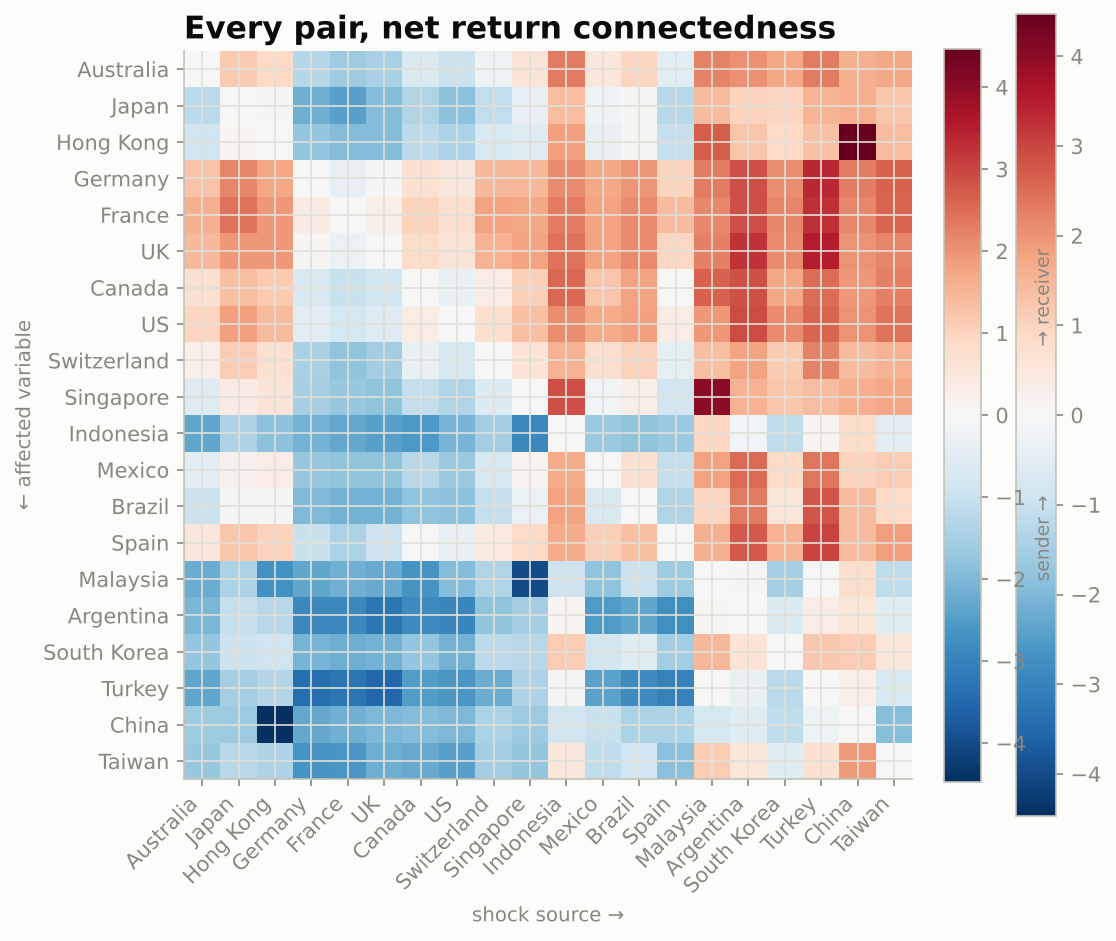
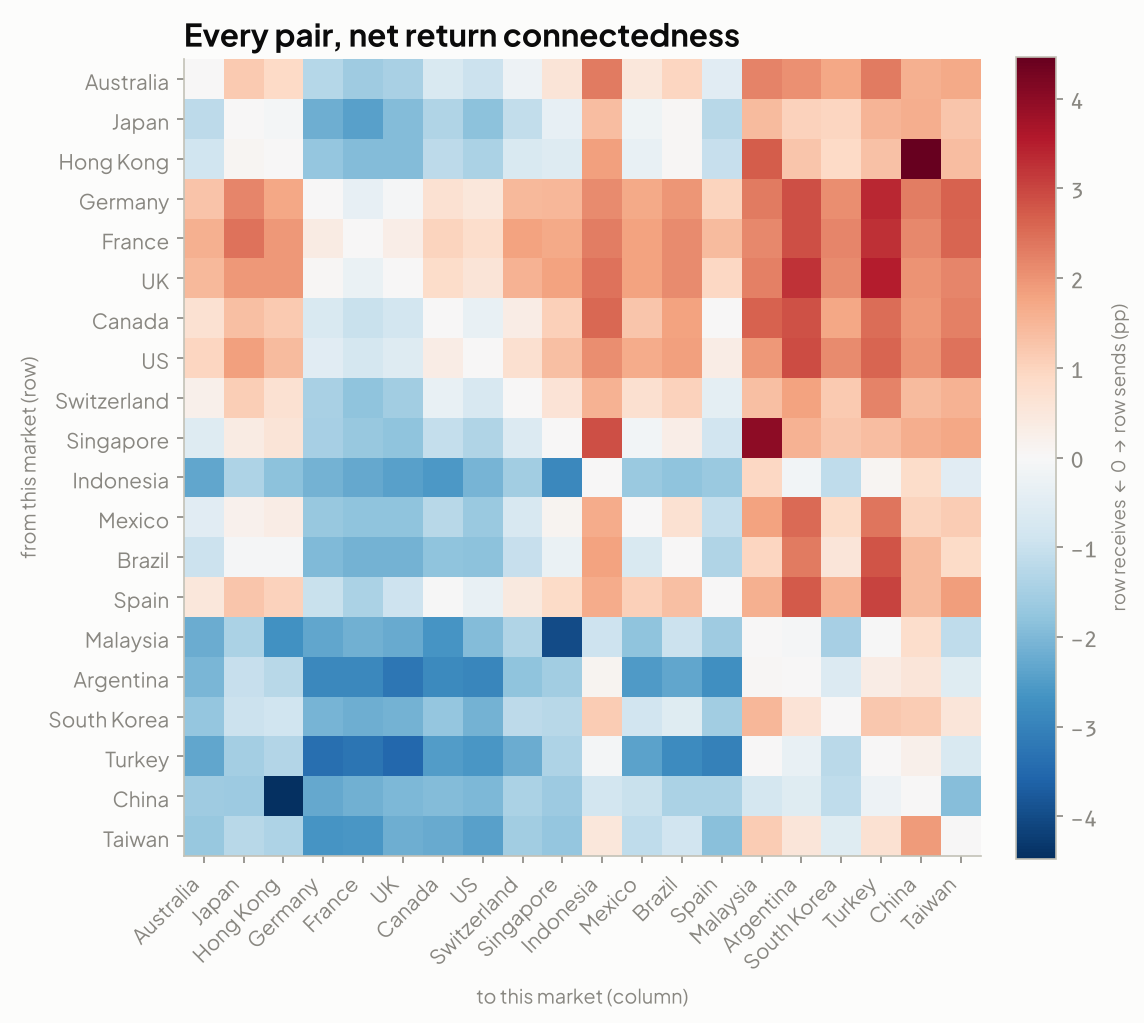
Style guide: Plus Jakarta Sans for words, B612 Mono for numbers, like the app
- the .mplstyle now uses Plus Jakarta Sans; styleguide/pcstyle.py adds
  mono_numbers() for tick values and mono_number() for callouts with a
  tightened decimal point, matching the app's CSS
- styleguide/get_fonts.py fetches both (OFL) from Google Fonts into a
  gitignored folder, instead of committing font files without their licence
- examples re-rendered in the new fonts, and fixed along the way: a duplicate
  heatmap colour bar, grid lines over the cells, heatmap labels that read
  backwards on pairwise_net, crisis bands in sender-red, and a red/blue
  callout that meant above or below average

Claude-Session: https://claude.ai/code/session_01DtrbYcsyzcmF9kZF1eJoP3

diff --git a/pyconnectedness-explorer/pipeline/render_styleguide_examples.py b/pyconnectedness-explorer/pipeline/render_styleguide_examples.py
@@ -33,14 +33,17 @@ OUT.mkdir(parents=True, exist_ok=True)
 SEND = "#e34948"
 RECV = "#2a78d6"
 EDGE = "#52514e"
-CRISIS = "#d03b3b"
+SECONDARY = "#52514e"  # crises are marked in neutral ink: red means "net sender" only
 PRIMARY = "#0b0b0b"
 MUTED = "#898781"
 GRID = "#e1e0d9"
 SURFACE = "#fcfcfb"
 
-for font_file in (STYLEGUIDE / "fonts").glob("*.ttf") if (STYLEGUIDE / "fonts").exists() else []:
-    fm.fontManager.addfont(str(font_file))
+sys.path.insert(0, str(STYLEGUIDE))
+from pcstyle import mono_number, mono_numbers, register_fonts  # noqa: E402
+
+if not register_fonts():
+    print("fonts missing: run `python styleguide/get_fonts.py` first (falling back to DejaVu Sans)")
 plt.style.use(str(STYLEGUIDE / "pyconnectedness.mplstyle"))
 
 # ---- the notebook's own cell 6, on the raw download run_demo.py saved ----
@@ -112,15 +115,19 @@ plt.close(fig)
 
 # ---- 2. heatmap: cell 18 (returns panel only), recoloured + legend ----
 fig, ax = plt.subplots(figsize=(7.5, 7))
-spillover_heatmap(ret_conn.pairwise_net, ax=ax, cmap="RdBu_r", annotate=False)
+spillover_heatmap(ret_conn.pairwise_net, ax=ax, cmap="RdBu_r", annotate=False, colorbar=False)
+ax.grid(False)  # the style sheet's grid would draw over the cells
 im = ax.images[0]
 maxabs = float(np.abs(ret_conn.pairwise_net.to_numpy()).max())
 im.set_clim(-maxabs, maxabs)
 cbar = fig.colorbar(im, ax=ax, fraction=0.046, pad=0.04)
-cbar.set_label("sender →                         → receiver", fontsize=9, color=MUTED)
+# pairwise_net[i, j] > 0 means row i sends to column j, so the library's default labels
+# ("affected variable" rows, "shock source" columns -- right for fevd) read backwards here
+cbar.set_label("row receives  ←  0  →  row sends (pp)", fontsize=9, color=MUTED)
 ax.set_title("Every pair, net return connectedness", loc="left", fontsize=15, fontweight="bold")
-ax.set_xlabel("shock source →", fontsize=9.5, color=MUTED)
-ax.set_ylabel("← affected variable", fontsize=9.5, color=MUTED)
+ax.set_xlabel("to this market (column)", fontsize=9.5, color=MUTED)
+ax.set_ylabel("from this market (row)", fontsize=9.5, color=MUTED)
+mono_numbers(colorbars=[cbar])
 fig.savefig(OUT / "heatmap_restyled.png", dpi=150, bbox_inches="tight", facecolor=SURFACE)
 plt.close(fig)
 
@@ -132,7 +139,7 @@ ax.margins(y=0.12)
 _, ytop = ax.get_ylim()
 for iso, label in episodes.items():
     ts = ret_dyn.total.index[ret_dyn.total.index.searchsorted(iso)]
-    ax.axvline(ts, color=CRISIS, alpha=0.25, lw=6)
+    ax.axvline(ts, color=SECONDARY, alpha=0.5, lw=1, ls=(0, (2, 3)))
     ax.text(ts + pd.Timedelta(weeks=1), ytop - 0.3, label, fontsize=8.5, color=MUTED,
             rotation=90, va="top", ha="left", zorder=5)
 fig.suptitle("When markets became fragile", x=0.02, y=0.98, ha="left", fontsize=16, fontweight="bold")
@@ -141,8 +148,11 @@ ax.set_title("Rolling total return spillover, 200-week window, VAR(2), H=10",
 fig.subplots_adjust(top=0.86)
 ax.set_ylabel("Total spillover, %")
 last = ret_dyn.total.iloc[-1]
-ax.annotate(f"{last:.1f}%", (ret_dyn.total.index[-1], last), xytext=(8, 0), textcoords="offset points",
-            fontsize=13, fontweight="bold", color=SEND if last >= ret_conn.total else RECV, va="center")
+mono_number(ax, (ret_dyn.total.index[-1], last), f"{last:.1f}%", xytext=(8, 0), fontsize=13,
+            fontweight="bold", color=PRIMARY, va="center")
+ax.text(ret_dyn.total.index[0], ret_conn.total, f" full sample {ret_conn.total:.1f}%", fontsize=8.5,
+        color=MUTED, va="bottom")
+mono_numbers(ax)
 fig.savefig(OUT / "timeline_restyled.png", dpi=150, facecolor=SURFACE)
 plt.close(fig)
 

diff --git a/pyconnectedness-explorer/styleguide/pcstyle.py b/pyconnectedness-explorer/styleguide/pcstyle.py
@@ -1,0 +1,60 @@
+"""
+Two helpers for the style guide's typography, matching the web explorer: Plus Jakarta Sans for
+words (set by pyconnectedness.mplstyle) and B612 Mono for every number.
+
+    from pcstyle import register_fonts, mono_numbers
+    register_fonts()                      # after `python styleguide/get_fonts.py`
+    plt.style.use("styleguide/pyconnectedness.mplstyle")
+    ...plot...
+    mono_numbers(ax)                      # tick values in B612 Mono
+
+matplotlib has no rcParam for "tick labels in a different family", hence the helper.
+"""
+from __future__ import annotations
+
+from pathlib import Path
+
+import matplotlib.font_manager as fm
+
+FONTS = Path(__file__).resolve().parent / "fonts"
+NUMBERS = "B612 Mono"
+
+
+def register_fonts() -> bool:
+    """Add styleguide/fonts/*.ttf to matplotlib. False if they haven't been downloaded."""
+    files = sorted(FONTS.glob("*.ttf")) if FONTS.exists() else []
+    for f in files:
+        fm.fontManager.addfont(str(f))
+    return bool(files)
+
+
+def mono_numbers(*axes, colorbars=()):
+    """Set tick values (and colorbar ticks) in B612 Mono. Words stay in the sans."""
+    for ax in list(axes) + [cb.ax for cb in colorbars]:
+        try:  # matplotlib >= 3.8: survives redraws, e.g. date ticks regenerated at save time
+            ax.tick_params(labelfontfamily=NUMBERS)
+        except (TypeError, ValueError):  # the library allows matplotlib >= 3.6
+            for label in ax.get_xticklabels() + ax.get_yticklabels():
+                label.set_fontfamily(NUMBERS)
+
+
+# B612 Mono gives "." a full cell (0.65 em, like every glyph), so 71.7 reads as "71. 7". The web
+# explorer pulls the dot in by -0.05 em on its left and -0.3 em on its right (app/src/style.css
+# .dp); this does the same for a matplotlib annotation.
+_ADVANCE_EM = 0.65
+_DOT_LEFT_EM, _DOT_RIGHT_EM = 0.05, 0.3
+
+
+def mono_number(ax, xy, text, *, xytext=(0, 0), fontsize=12, **kwargs):
+    """Annotate `text` (e.g. "71.7%") in B612 Mono at `xy`, left-aligned at offset `xytext`
+    points, with the decimal point tightened. Extra kwargs go to `ax.annotate`."""
+    kwargs = {"textcoords": "offset points", "ha": "left", "fontfamily": NUMBERS, **kwargs}
+    head, dot, tail = text.partition(".")
+    x0, y0 = xytext
+    ax.annotate(head, xy, xytext=(x0, y0), fontsize=fontsize, **kwargs)
+    if not dot:
+        return
+    adv = _ADVANCE_EM * fontsize
+    x_dot = x0 + len(head) * adv - _DOT_LEFT_EM * fontsize
+    ax.annotate(".", xy, xytext=(x_dot, y0), fontsize=fontsize, **kwargs)
+    ax.annotate(tail, xy, xytext=(x_dot + adv - _DOT_RIGHT_EM * fontsize, y0), fontsize=fontsize, **kwargs)

diff --git a/pyconnectedness-explorer/styleguide/get_fonts.py b/pyconnectedness-explorer/styleguide/get_fonts.py
@@ -1,0 +1,33 @@
+"""
+Download the style guide's fonts into styleguide/fonts/ (gitignored): Plus Jakarta Sans 400-700
+for words, B612 Mono 400/700 for numbers -- the same pair the web explorer uses. Both are SIL
+Open Font License 1.1, served by Google Fonts. Run once per machine:
+
+    python styleguide/get_fonts.py
+"""
+from __future__ import annotations
+
+import re
+import urllib.request
+from pathlib import Path
+
+CSS = (
+    "https://fonts.googleapis.com/css2?"
+    "family=Plus+Jakarta+Sans:wght@400;500;600;700&family=B612+Mono:wght@400;700"
+)
+OUT = Path(__file__).resolve().parent / "fonts"
+
+
+def main():
+    OUT.mkdir(exist_ok=True)
+    # no browser user agent -> Google Fonts answers with plain TTF URLs, which matplotlib reads
+    css = urllib.request.urlopen(CSS).read().decode()
+    faces = re.findall(r"font-family: '([^']+)';.*?font-weight: (\d+);.*?url\(([^)]+)\)", css, re.S)
+    for family, weight, url in faces:
+        path = OUT / f"{family.replace(' ', '')}-{weight}.ttf"
+        path.write_bytes(urllib.request.urlopen(url).read())
+        print("wrote", path)
+
+
+if __name__ == "__main__":
+    main()

diff --git a/pyconnectedness-explorer/pipeline/render_styleguide_layered.py b/pyconnectedness-explorer/pipeline/render_styleguide_layered.py
@@ -9,6 +9,7 @@ library's output once the module exists; the drawing code shouldn't need to chan
 """
 from __future__ import annotations
 
+import sys
 from pathlib import Path
 
 import matplotlib
@@ -21,6 +22,11 @@ from matplotlib.patches import FancyArrowPatch
 
 ROOT = Path(__file__).resolve().parents[1]
 STYLEGUIDE = ROOT / "styleguide"
+sys.path.insert(0, str(STYLEGUIDE))
+from pcstyle import register_fonts  # noqa: E402
+
+if not register_fonts():
+    print("fonts missing: run `python styleguide/get_fonts.py` first (falling back to DejaVu Sans)")
 plt.style.use(str(STYLEGUIDE / "pyconnectedness.mplstyle"))
 
 INK = "#0b0b0b"

diff --git a/pyconnectedness-explorer/styleguide/STYLE_GUIDE.md b/pyconnectedness-explorer/styleguide/STYLE_GUIDE.md
@@ -58,7 +58,7 @@ unrelated pair). One pair, used identically in both charts, fixes that directly.
 | Net sender (`send`) | `#e34948` | `#e66767` |
 | Net receiver (`recv`) | `#2a78d6` | `#3987e5` |
 | Diverging midpoint | `#f0efec` | `#383835` |
-| Crisis emphasis (distinct from `send`) | `#d03b3b` | `#d03b3b` |
+| Critical alert, not for chart data (see rule below) | `#d03b3b` | `#d03b3b` |
 | Primary ink | `#0b0b0b` | `#f0efec` |
 | Secondary ink | `#52514e` | `#c3c2b7` |
 | Muted (axis/labels) | `#898781` | `#898781` |
@@ -75,9 +75,9 @@ been through the validator yet; run it before they ship in a library release.
 
 **Colour has one meaning per channel, across all four graphics.**
 - **Red/blue means net sender/receiver**, a signed Diebold-Yilmaz position. Use it nowhere else.
-  That includes crises: the crisis red above sits too close to the sender red. The explorer marks
-  crisis dates with dashed neutral ink and labels instead, and the crisis recipe below should
-  move to the same treatment (secondary ink, `alpha≈0.5`) next time the examples are rendered.
+  That includes crises: the crisis red above sits too close to the sender red, so crisis dates
+  are dashed neutral ink with a label, in the explorer and in the recipe below. The crisis red
+  stays in the table only for a future "critical alert" state, not for chart data.
 - **The accent means "what you selected"**: a hovered node, a traced path. It never means data.
 - **Ink, in weight and opacity, carries magnitude or confidence** when there's no sign.
 
@@ -92,29 +92,46 @@ node scripts/validate_palette.js "#3987e5,#e66767" --mode dark
 
 ## Typography
 
-From the typefaces the client already gathered (`../CONTEXT.md`, "References gathered"), split
-by job the same way the client's own list already splits them ("for numbers and data" vs.
-"academic tone"):
+The same two families as the web explorer, so library plots, docs and the website match:
 
-- **Titles** -- Source Serif 4. Reads academic, not corporate; not used for numbers (a serif
-  hero figure looks like decoration, per the `dataviz` skill's mark spec).
-- **Labels, ticks, axis text** -- IBM Plex Sans.
-- **Numbers, tick values** -- B612 Mono (the client's own first pick, from Airbus/ENAC --
-  monospace figures keep a column of numbers aligned).
+- **Words** (titles, labels, legends, annotations): **Plus Jakarta Sans**, 400–700. It's the
+  closest free match to Aeonik, the face in the client's Figma file. Titles use 600–700 and
+  state the finding.
+- **Numbers** (tick values, colour-bar ticks, callouts, tables): **B612 Mono**, 400/700. It's
+  the client's own first pick, from Airbus/ENAC. Monospace keeps columns of figures aligned.
+- **Page headlines on the web only**: the explorer sets its one headline sentence in Source
+  Serif 4. Charts don't use a serif.
+
+**B612 Mono's decimal point takes a full-width cell, so "71.7" renders as "71. 7".** The
+explorer tightens it in CSS; for plots, use `pcstyle.mono_number()` for any callout with a
+decimal (below). Tick values are usually whole numbers, so they don't need it.
 
 ### Registering the fonts
 
-matplotlib doesn't ship these. Download the `.ttf` files (all on Google Fonts) into
-`styleguide/fonts/`, then:
+They aren't matplotlib built-ins. Both are SIL Open Font License, from Google Fonts. Fetch them
+once per machine into `styleguide/fonts/` (gitignored):
 
-```python
-import matplotlib.font_manager as fm
-for f in Path("styleguide/fonts").glob("*.ttf"):
-    fm.fontManager.addfont(str(f))
+```bash
+python styleguide/get_fonts.py
 ```
 
-`pyconnectedness.mplstyle` already sets `font.sans-serif: IBM Plex Sans, ...` with a
-`DejaVu Sans` fallback so plots still render reasonably if the fonts aren't installed.
+Then, in a script or notebook:
+
+```python
+import sys; sys.path.insert(0, "styleguide")
+from pcstyle import register_fonts, mono_numbers, mono_number
+
+register_fonts()                                   # adds styleguide/fonts/*.ttf
+plt.style.use("styleguide/pyconnectedness.mplstyle")  # words in Plus Jakarta Sans
+...plot...
+mono_numbers(ax, colorbars=[cbar])                 # tick values in B612 Mono
+mono_number(ax, (x, y), "71.7%", xytext=(8, 0), fontsize=13, fontweight="bold")  # callout
+```
+
+`pyconnectedness.mplstyle` sets `font.sans-serif: Plus Jakarta Sans, DejaVu Sans, ...`, so plots
+still render, in DejaVu Sans, if the fonts aren't installed. matplotlib has no rcParam for tick
+labels alone, which is why `mono_numbers` exists. It uses `tick_params(labelfontfamily=...)` on
+matplotlib 3.8+, so date ticks regenerated at save time keep the font.
 
 ## Using the style sheet
 
@@ -167,8 +184,17 @@ im = ax.images[0]
 maxabs = float(np.abs(result.pairwise_net.to_numpy()).max())
 im.set_clim(-maxabs, maxabs)          # centre the colourmap on zero
 cbar = fig.colorbar(im, ax=ax, fraction=0.046, pad=0.04)
-cbar.set_label("sender →          → receiver", fontsize=9)
+cbar.set_label("row receives  ←  0  →  row sends (pp)", fontsize=9)
+ax.set_xlabel("to this market (column)")
+ax.set_ylabel("from this market (row)")
+ax.grid(False)                        # the style sheet's grid would draw over the cells
+mono_numbers(colorbars=[cbar])
 ```
+
+Call `spillover_heatmap(..., colorbar=False)` when you add your own colour bar, or you get two.
+**Always relabel the axes for `pairwise_net`.** The library's defaults ("affected variable" for
+rows, "shock source" for columns) are right for `fevd`. On `pairwise_net`, a positive cell means
+the *row* sends to the *column*, so the defaults read backwards.
 
 `RdBu_r` itself is already a reasonable diverging map and doesn't need replacing -- the fix here
 is centring it explicitly and adding the label, not swapping the colormap.
@@ -182,14 +208,15 @@ call to recolour:
 ```python
 for iso, label in episodes.items():
     ts = dyn.total.index[dyn.total.index.searchsorted(iso)]
-    ax.axvline(ts, color="#d03b3b", alpha=0.25, lw=6)   # a soft band, not a hard line
+    ax.axvline(ts, color="#52514e", alpha=0.5, lw=1, ls=(0, (2, 3)))  # neutral: red = sender
     ax.text(ts + pd.Timedelta(weeks=1), ax.get_ylim()[1] - 0.3, label,
             fontsize=8.5, color="#898781", rotation=90, va="top", ha="left")
 ```
 
-Pair with a callout of the current value (`ax.annotate` at the series' last point) so the
-headline number isn't only ever in notebook output, which the style analysis also names
-directly.
+Pair with a callout of the current value, `mono_number(ax, (last_date, last), f"{last:.1f}%")`
+in primary ink, so the headline number isn't only ever in notebook output, which the style
+analysis also names directly. Keep the callout ink, not red/blue: above or below the average
+isn't "sender" or "receiver".
 
 ## The layered network (extreme risk)
 
